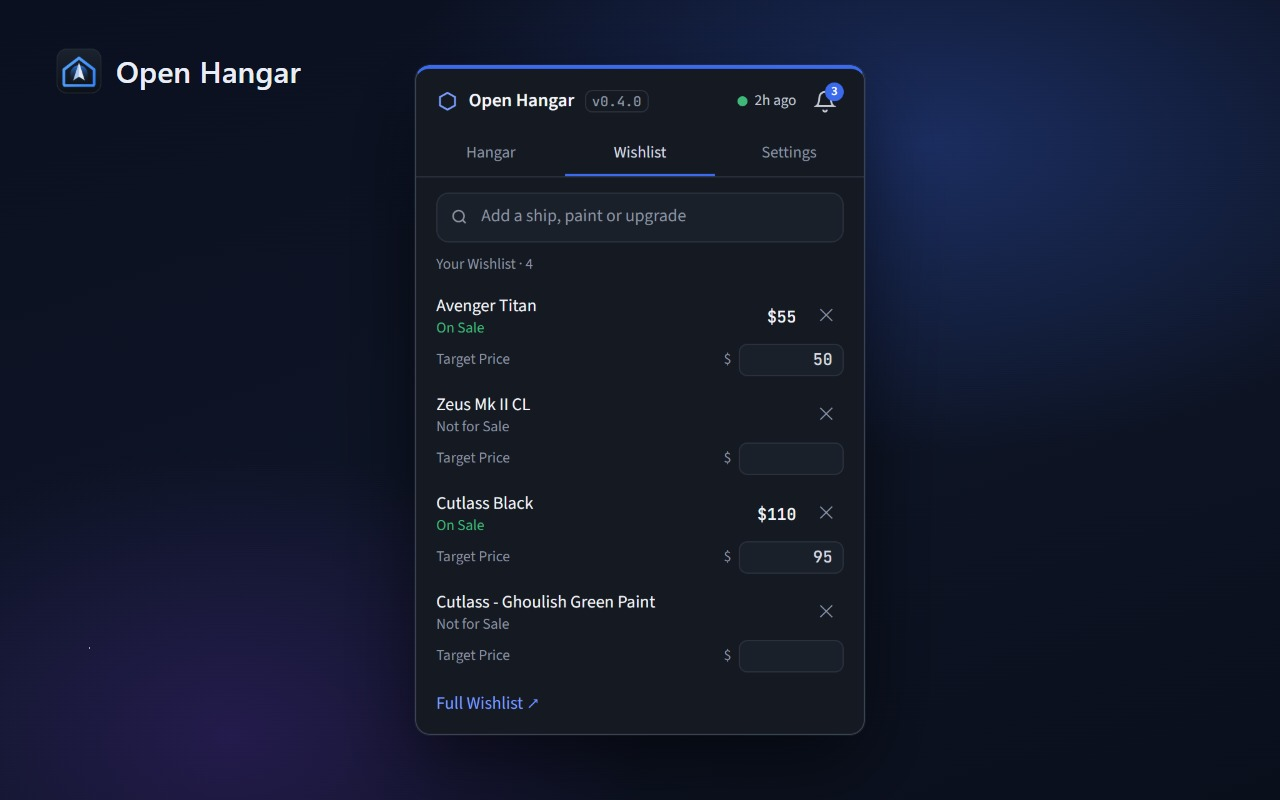
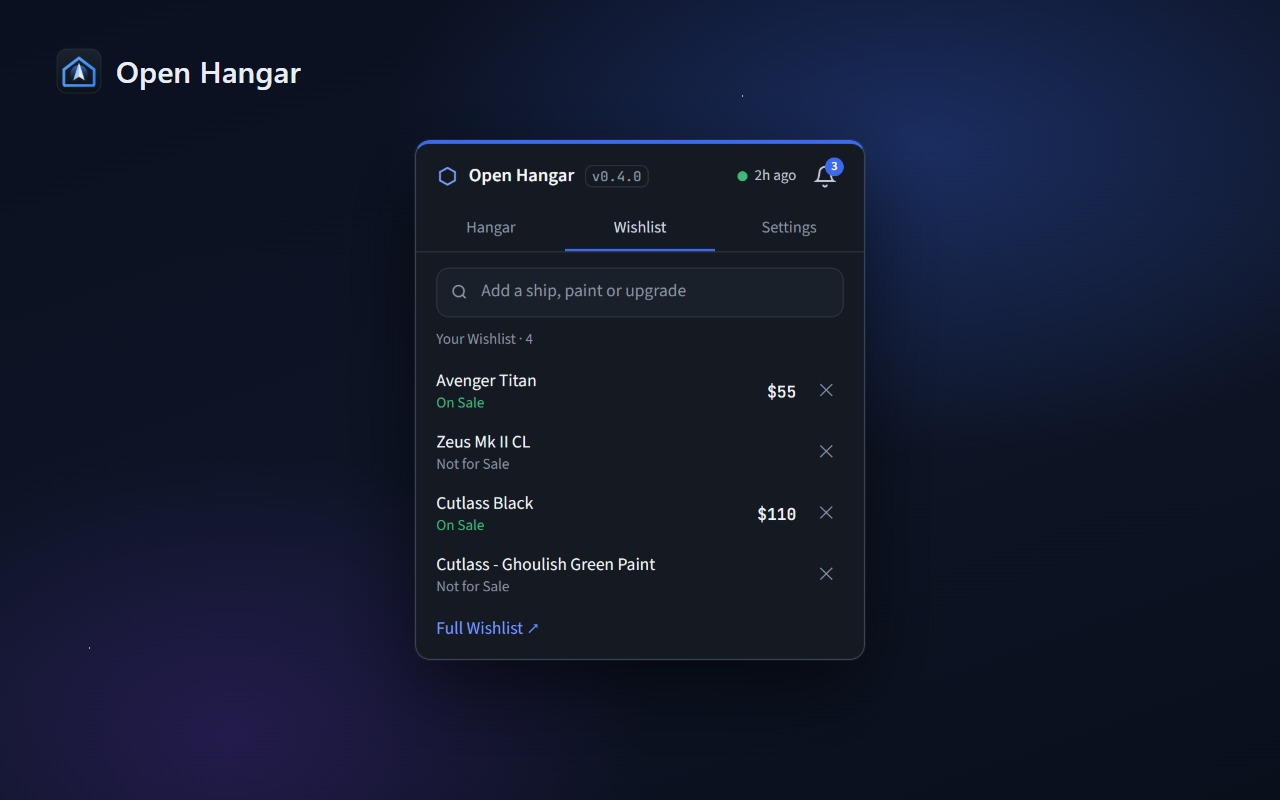
fix(popup): no Target Price on Wishlist items (#696)
* fix(popup): no Target Price on Wishlist items (#693)

Ships go on sale or they don't, so there's no price to wait for. The popup's
Wishlist keeps search, add and Remove.

* chore: remove the branch plan

* chore: the Wishlist store screenshot without Target Price

---------

diff --git a/ui/popup/Wishlist.svelte b/ui/popup/Wishlist.svelte
@@ -2,8 +2,8 @@
   // The Wishlist tab (the privacy policy's "Your Wishlist"): while connected, the
   // account's Wishlist from openhangar.space (./wish-client.js, a copy kept here), and,
   // while the website takes changes from the extension, a search to add a ship, paint or
-  // upgrade, a Target Price for each item and its Remove. The search runs on this device
-  // over what the extension already keeps (./wishlist.js: the ship list, and with store
+  // upgrade, and each item's Remove (no Target Price: a ship is on sale or it isn't).
+  // The search runs on this device over what the extension already keeps (./wishlist.js: the ship list, and with store
   // alerts on the sale feed); what's typed goes nowhere. Each change is one request, one
   // at a time, only from a click. On Sale and prices come from the sale feed, so only
   // with store alerts on, in the currency picked (the dollar figure on hover). The
@@ -22,14 +22,7 @@
     searched,
     shipNames,
   } from './wishlist.js';
-  import {
-    WISH_MAX,
-    centsText,
-    loadWish,
-    parseTarget,
-    popupEnv,
-    writeWish,
-  } from './wish-client.js';
+  import { WISH_MAX, loadWish, popupEnv, writeWish } from './wish-client.js';
   import { openHub, openTab } from './actions.js';
   import { USD, money } from './currency.js';
 
@@ -44,7 +37,6 @@
   let q = $state('');
   let busy = $state(false); // a change on its way
   let note = $state('');
-  let bad = $state(''); // the item whose Target Price can't be a price
   let search = $state();
   const env = popupEnv();
 
@@ -112,8 +104,7 @@
       await load({ force: true });
       return r;
     }
-    if (r.outcome === 'bad-target') bad = c.key;
-    else if (r.error === 'refused' && c.do === 'add') note = t('popup.wish-not-added', { name });
+    if (r.error === 'refused' && c.do === 'add') note = t('popup.wish-not-added', { name });
     else if (r.outcome !== 'not-found') note = t('popup.wish-trouble');
     return r;
   }
@@ -127,27 +118,6 @@
   }
   function remove(item) {
     change({ do: 'remove', key: item.key }, item.name);
-  }
-  // Target Price, sent when it's left or Enter is pressed, only when it changed and is a
-  // price the website takes ("150", "89.50"; empty clears it). A save that didn't go
-  // through puts back the price the website has, so the field never shows one it doesn't
-  // (a price it refused stays, marked, to be fixed).
-  async function target(item, el) {
-    const p = parseTarget(el.value);
-    if (!p.ok) {
-      bad = item.key;
-      return;
-    }
-    if (bad === item.key) bad = '';
-    el.value = centsText(p.cents);
-    if (p.cents === item.target) return;
-    const r = await change(
-      { do: 'save', key: item.key, target: centsText(p.cents) || null },
-      item.name,
-    );
-    if (r.ok || bad === item.key) return;
-    const saved = (list?.mode === 'edit' && list.items.find((i) => i.key === item.key)) || item;
-    el.value = centsText(saved.target);
   }
   const KIND_ICON = { ship: 'ship', ccu: 'up', paint: 'paint' };
 </script>
@@ -252,20 +222,6 @@
                 onclick={() => remove(item)}>✕</button
               >
             </div>
-            <label class="pp-wtarget">
-              <span>{t('popup.wish-target')}</span>
-              <span class="pp-dollar" aria-hidden="true">$</span>
-              <input
-                type="text"
-                inputmode="decimal"
-                maxlength="12"
-                autocomplete="off"
-                value={centsText(item.target)}
-                aria-invalid={bad === item.key ? 'true' : null}
-                disabled={busy}
-                onchange={(ev) => target(item, ev.currentTarget)}
-              />
-            </label>
           </li>
         {/each}
       </ul>

diff --git a/ui/popup/popup.css b/ui/popup/popup.css
@@ -720,7 +720,7 @@ body {
   font-size: 13px;
   color: var(--head);
 }
-/* The Wishlist's search, what it found, and each item's Target Price and Remove. */
+/* The Wishlist's search, what it found, and each item's Remove. */
 .pp-wsearch {
   display: flex;
   align-items: center;
@@ -820,37 +820,6 @@ body {
 .pp-wx:disabled {
   opacity: 0.55;
   cursor: not-allowed;
-}
-.pp-wtarget {
-  display: flex;
-  align-items: center;
-  gap: 6px;
-  font-size: 12px;
-  color: var(--muted);
-}
-.pp-wtarget > span:first-child {
-  margin-right: auto;
-}
-.pp-wtarget input {
-  width: 84px;
-  height: 26px;
-  box-sizing: border-box;
-  padding: 0 8px;
-  font: inherit;
-  font-family: var(--font-data);
-  font-size: 13px;
-  text-align: right;
-  color: var(--text);
-  background: var(--lift-2);
-  border: 1px solid var(--line);
-  border-radius: 7px;
-}
-.pp-wtarget input:focus {
-  outline: 0;
-  border-color: var(--accent);
-}
-.pp-wtarget input[aria-invalid='true'] {
-  border-color: var(--warn);
 }
 .pp-wnone {
   margin: 8px 0 0;
@@ -1096,9 +1065,6 @@ html.phone body {
 }
 .phone .pp-wx {
   width: 44px;
-}
-.phone .pp-wtarget input {
-  height: 40px;
 }
 .phone .pp-bell,
 .phone .pp-back {

diff --git a/test/popup.test.js b/test/popup.test.js
@@ -561,7 +561,6 @@ test("popup copy: Title Case labels, no em dashes, and the basic page's words wo
     'popup.wish-no-match': 'No matches.',
     'popup.wish-not-added': "Couldn't add {name}.",
     'popup.wish-remove': 'Remove {name}',
-    'popup.wish-target': 'Target Price',
     'popup.export-json': 'JSON Backup',
     'popup.export-pledges': 'Pledges CSV',
     'popup.export-buybacks': 'Buy-Backs CSV',
@@ -580,7 +579,7 @@ test("popup copy: Title Case labels, no em dashes, and the basic page's words wo
   // The retired line (replaced 2026-10-14) is gone for good.
   for (const k of KEYS) assert.ok(!/kept your last good scan/.test(t(k)), `${k}: retired words`);
   for (const [k, words] of Object.entries(APPROVED)) assert.equal(t(k), words, k);
-  for (const k of ['popup.wish-target', 'popup.export-json', 'popup.export-pledges'])
+  for (const k of ['popup.export-json', 'popup.export-pledges'])
     for (const w of t(k).split(/\s+/)) assert.match(w, /^[A-Z]/, `${k}: Title Case`);
   // Only the words still waiting for the owner's OK carry the mark, each one said
   // beside it (NEW_WORDS lists them for the PR).

diff --git a/ui/popup/copy.js b/ui/popup/copy.js
@@ -114,7 +114,6 @@ const COPY = {
   // The ✕ beside an item, for screen readers.
   'popup.wish-remove': 'Remove {name}',
   // The field for the price you're waiting for, in US dollars.
-  'popup.wish-target': 'Target Price',
   // The website didn't take an add (it couldn't place the item, or the list is full).
   'popup.wish-not-added': "Couldn't add {name}.",
   // --- Settings tab ---

diff --git a/docs/CONNECTOR.md b/docs/CONNECTOR.md
@@ -21,7 +21,7 @@ build and the beta from 0.3.0 (owner, 2026-10-13), with `localMode`, `wishlistIm
   background shares them; greyed while RSI's sign-in cookie isn't in the browser,
   `ui/popup/rsi-cookie.js`, presence only), Open My Hangar. Wishlist, while connected:
   the account's Wishlist from the website (`ui/popup/wish-client.js`, a copy kept in
-  `popupWish`), with a search on the device to add, a Target Price and Remove while the
+  `popupWish`), with a search on the device to add and Remove (no Target Price) while the
   website takes changes from the extension; read only as the store alerts read it when
   it doesn't. Settings: the settings the basic page had until 0.4.0, plus Look (light mode),
   Currency (the day's rates for anything but USD) and the shortcut (`commands` in
@@ -150,7 +150,7 @@ step 3 above).
 | openhangar.space `api/store/on-sale` (alerts on, every 30 minutes at most, **new**)   | Extension Alerts: the public sale feed, matched on the device             |
 | app.openhangar.space `GET /api/v1/wishlist` (alerts on and connected, **new**)        | Extension Alerts: your account's Wishlist keys, read only                 |
 | app.openhangar.space `GET /api/v1/wishlist?with=items` (connected, 0.4.0)             | The popup's Wishlist tab (a copy younger than 5 minutes is used)          |
-| app.openhangar.space `POST /api/v1/wishlist` (a click, one at a time, 0.4.0)          | The Wishlist tab: one change (which item, and a Target Price if set)      |
+| app.openhangar.space `POST /api/v1/wishlist` (a click, one at a time, 0.4.0)          | The Wishlist tab: one change (which item)                                 |
 | openhangar.space `rates.json` (a currency picked, not USD, once a day at most, 0.4.0) | The popup's Currency                                                      |
 
 Extension Alerts' two requests are new too: the sale feed is the same public file for

diff --git a/CHANGELOG.md b/CHANGELOG.md
@@ -4,6 +4,8 @@ What's changed in each release of Open Hangar. Dates are when the version was cu
 
 ## Unreleased
 
+- Changed: **No Target Price on Wishlist items.** Ships go on sale or they don't, so there's no price to wait for.
+
 ## 0.4.0 — 2026-10-14
 
 - New: **A new toolbar popup.** Three tabs, Hangar, Wishlist and Settings, plus an alerts bell whose number matches the toolbar badge. The Hangar tab shows your RSI portrait and handle, Account Value and how it changed since an earlier scan, Store Credit, Buy-Back Tokens with the next refill, up to three Fleet News notes, and Scan.
